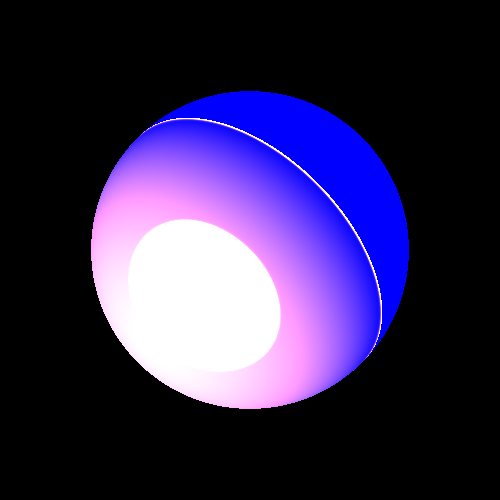
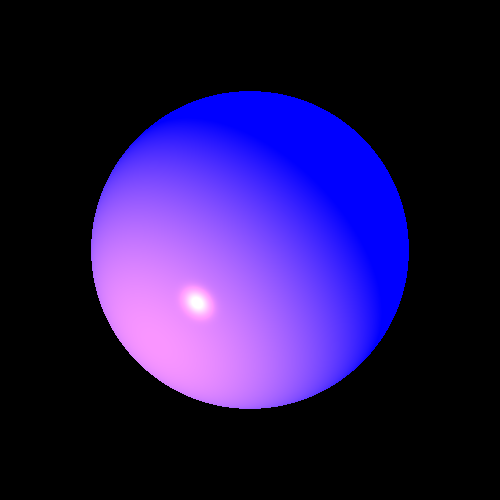
shazam:

Changed region(s): [[0.18, 0.21, 0.78, 0.84], [0.63, 0.36, 0.66, 0.39], [0.6, 0.33, 0.63, 0.36]]

diff --git a/src/renderer/RayTracerBasic.java b/src/renderer/RayTracerBasic.java
@@ -4,6 +4,7 @@ import elements.LightSource;
 import primitives.*;
 import scene.Scene;
 import geometries.Intersectable.GeoPoint;
+import utility.tools;
 
 import static primitives.Util.alignZero;
 
@@ -53,10 +54,10 @@ public class RayTracerBasic extends RayTracerBase {
        return kd*(Math.abs(l.dotProduct(n)));//add argument l*n
    }
     private double calcSpecular(double ks,Vector l ,Vector n,Vector v,int nShininess ) {
-        Vector temp= n.scale(l.dotProduct(n));
-        Vector r = l.subtract(temp.scale(2));
+        Vector temp= n.scale(2*l.dotProduct(n));
+        Vector r = l.subtract(temp);
         Vector temp2= v.scale(-1);
-        double num=temp2.dotProduct(r);
+        double num= tools.max(0,temp2.dotProduct(r));
         return ks*(Math.pow(num,nShininess));
     }
 

diff --git a/src/elements/SpotLight.java b/src/elements/SpotLight.java
@@ -10,7 +10,7 @@ public class SpotLight extends PointLight{
 
     public SpotLight(Color intensity, Point3D pos, double kC, double kL, double kQ, Vector direction) {
         super(intensity, pos, kC, kL, kQ);
-        this.direction = direction;
+        this.direction = direction.normalized();
     }
     @Override
     public Color getIntensity(Point3D p) {

diff --git a/src/elements/PointLight.java b/src/elements/PointLight.java
@@ -25,6 +25,6 @@ public class PointLight extends Light implements LightSource{
 
     @Override
     public Vector getL(Point3D p) {
-       return  new Vector(pos.subtract(p).getHead());
+       return  new Vector(pos.subtract(p).getHead()).normalized();
     }
 }

diff --git a/src/elements/DirectionalLight.java b/src/elements/DirectionalLight.java
@@ -9,7 +9,7 @@ public class DirectionalLight extends Light implements LightSource{
 
     public DirectionalLight(Color intensity,Vector dir) {
         super(intensity);
-        direction=dir;
+        direction=dir.normalized();
     }
 
     @Override
